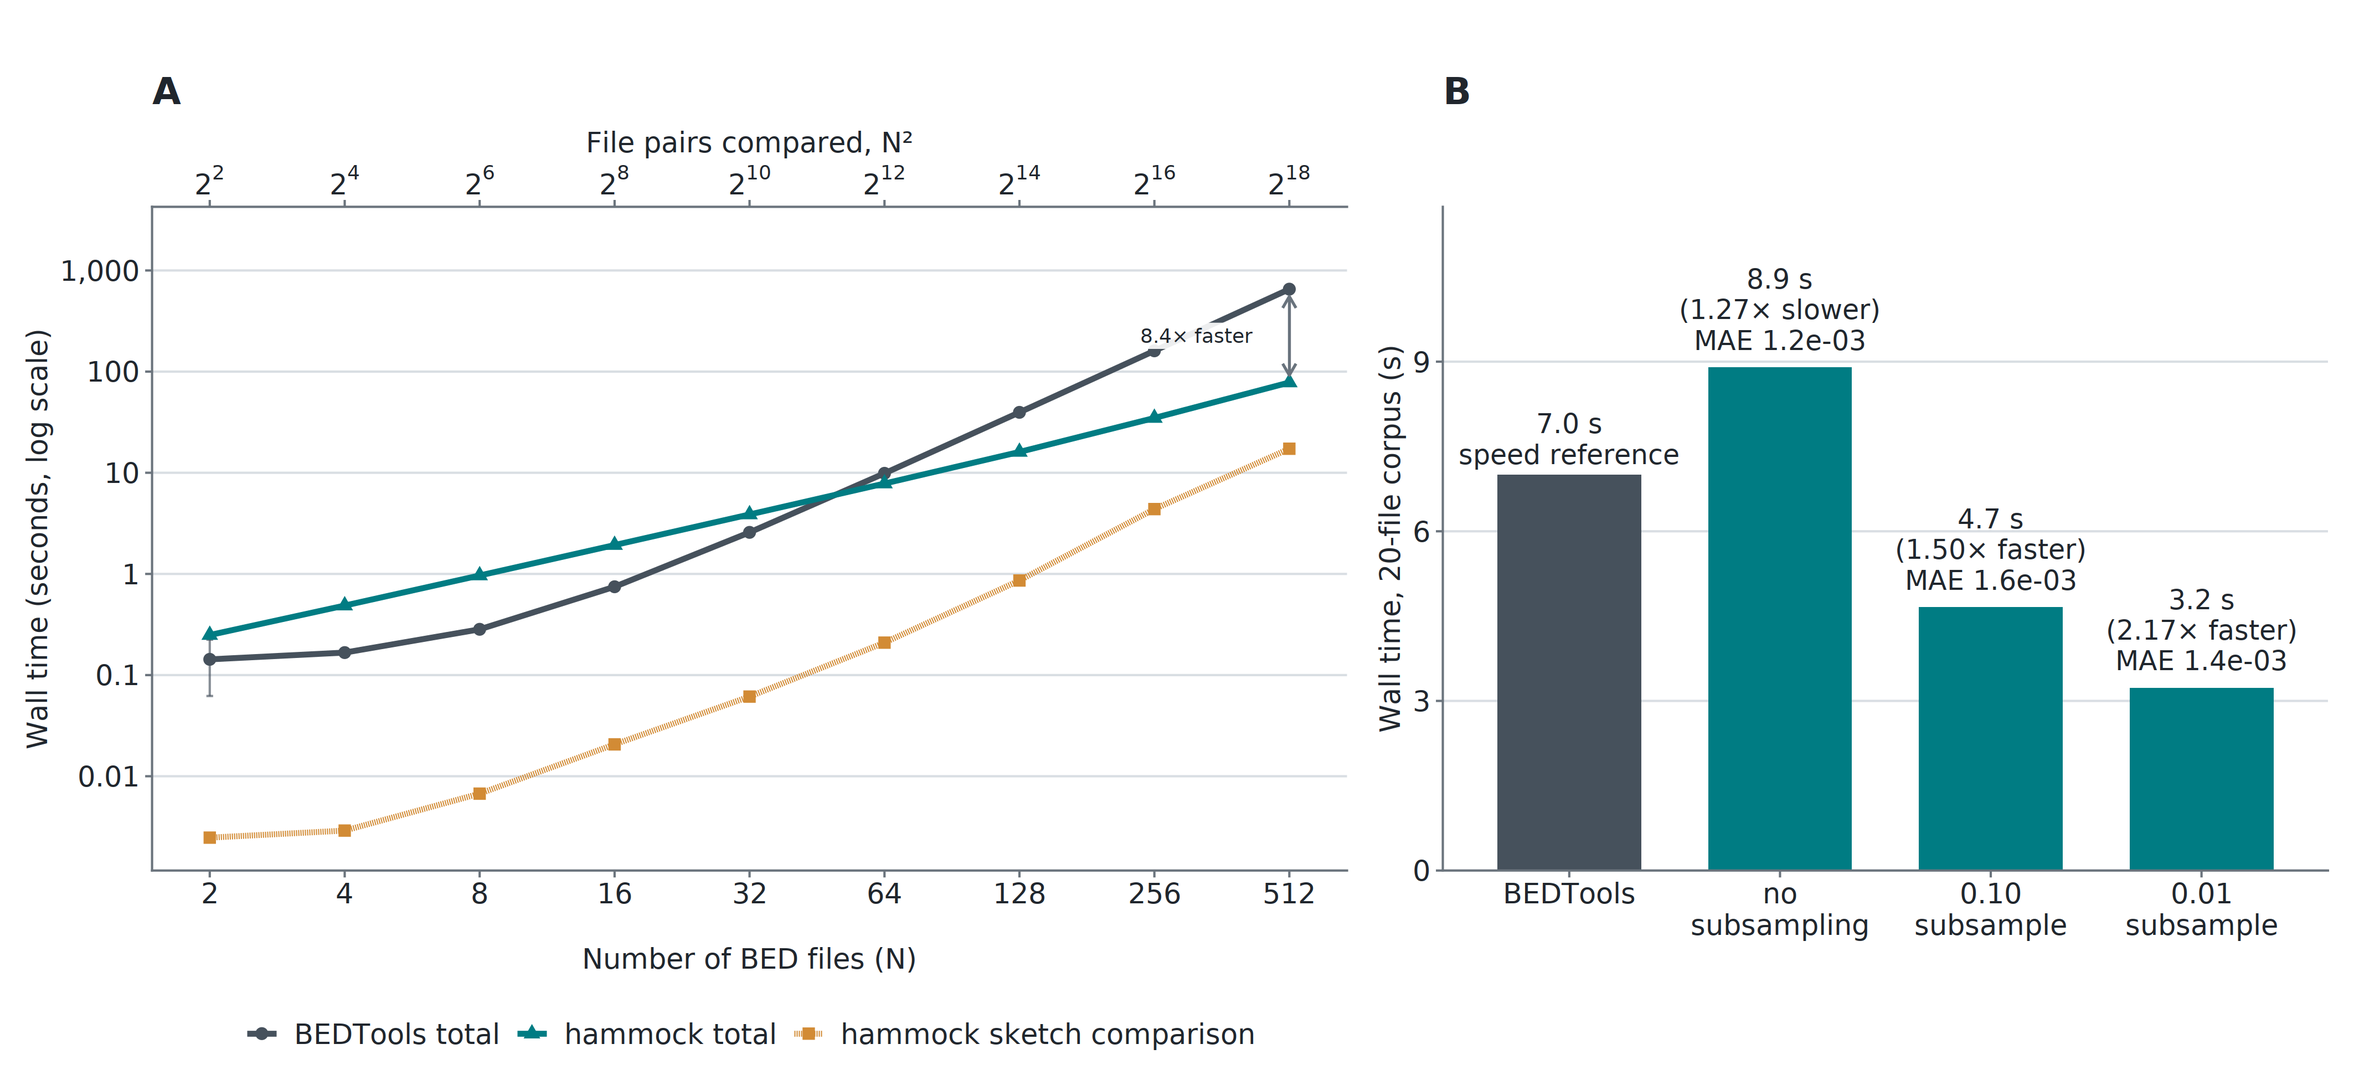
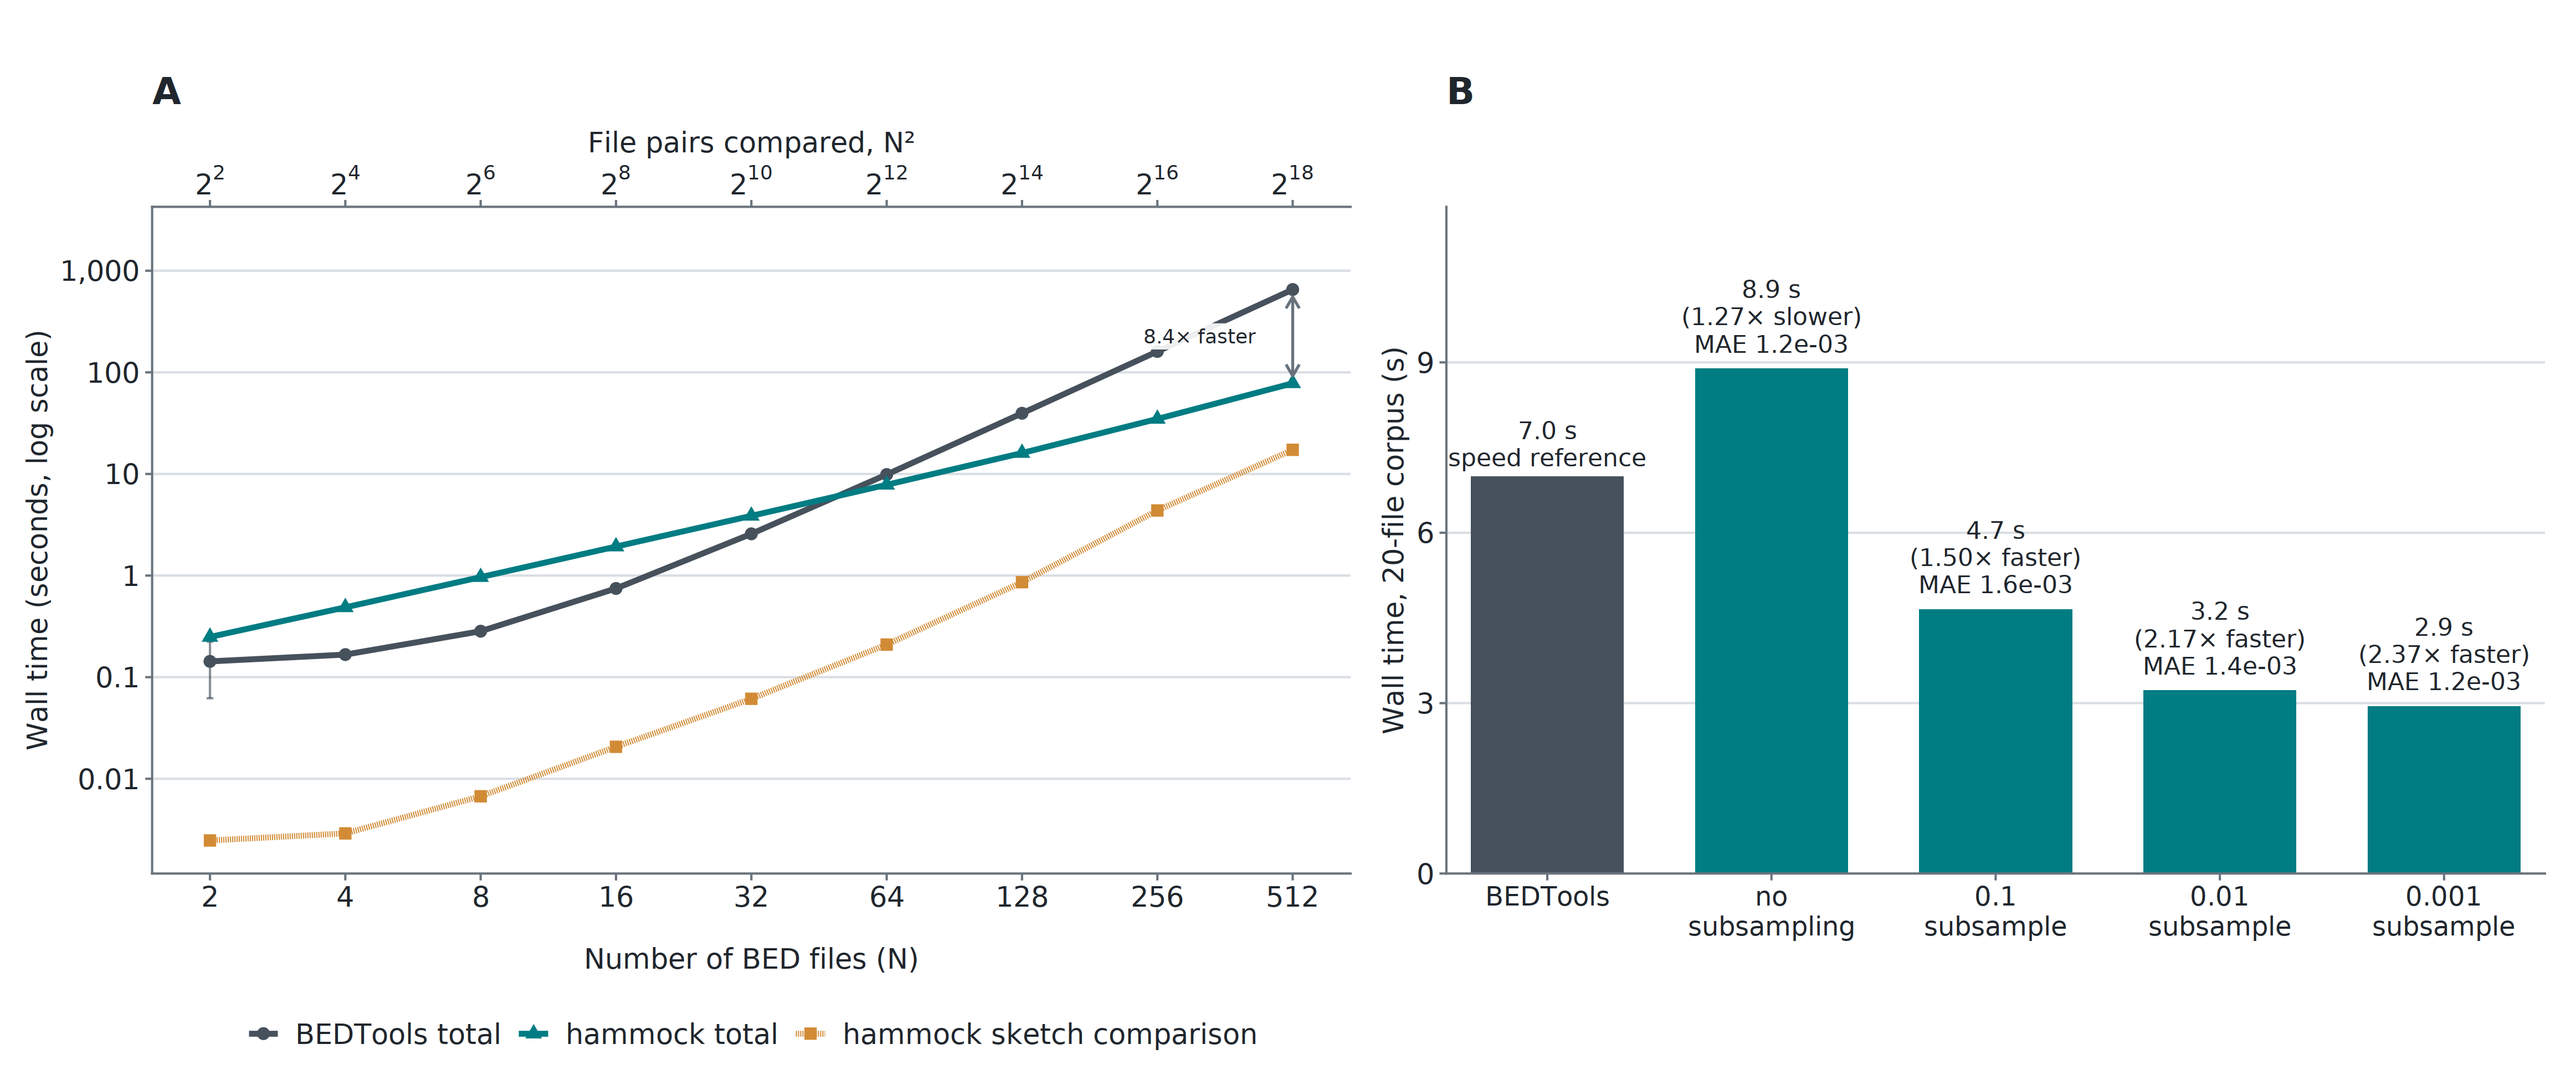
Add subB 0.001 to Figure 3B

diff --git a/experiments/mixed_stride_v2_figure3_reproduction/prepare_inputs.py b/experiments/mixed_stride_v2_figure3_reproduction/prepare_inputs.py
@@ -61,14 +61,14 @@ def summarize_panel_b(hammock_csv: Path, truth_path: Path,
         })
     fields = list(output_rows[0])
     with output.open("w", newline="") as handle:
-        writer = csv.DictWriter(handle, fieldnames=fields)
+        writer = csv.DictWriter(handle, fieldnames=fields, lineterminator="\n")
         writer.writeheader()
         writer.writerows(output_rows)
     with figure3_output.open("w", newline="") as handle:
-        writer = csv.DictWriter(handle, fieldnames=fields)
+        writer = csv.DictWriter(handle, fieldnames=fields, lineterminator="\n")
         writer.writeheader()
         writer.writerows(row for row in output_rows
-                         if row["subB"] in {1.0, 0.1, 0.01})
+                         if row["subB"] in {1.0, 0.1, 0.01, 0.001})
 
 
 def main() -> int:

diff --git a/experiments/mixed_stride_v2_figure3_reproduction/README.md b/experiments/mixed_stride_v2_figure3_reproduction/README.md
@@ -37,8 +37,9 @@ integral, so this branch's v2 default delegates to the legacy grid. The 0.3,
 
 All generated files land under `results/`, `logs/`, and `figures/` here. The
 finalizer renders `pairwise_scaling_reproduced.png` with the paper's original
-three Panel B rates and `pairwise_scaling_reproduced_expanded.png` with all
-nine rates. Panel A is identical in both figures and does not use subB.
+three Panel B rates plus subB = 0.001, and
+`pairwise_scaling_reproduced_expanded.png` with all nine rates. Panel A is
+identical in both figures and does not use subB.
 
 ## Completed run
 
